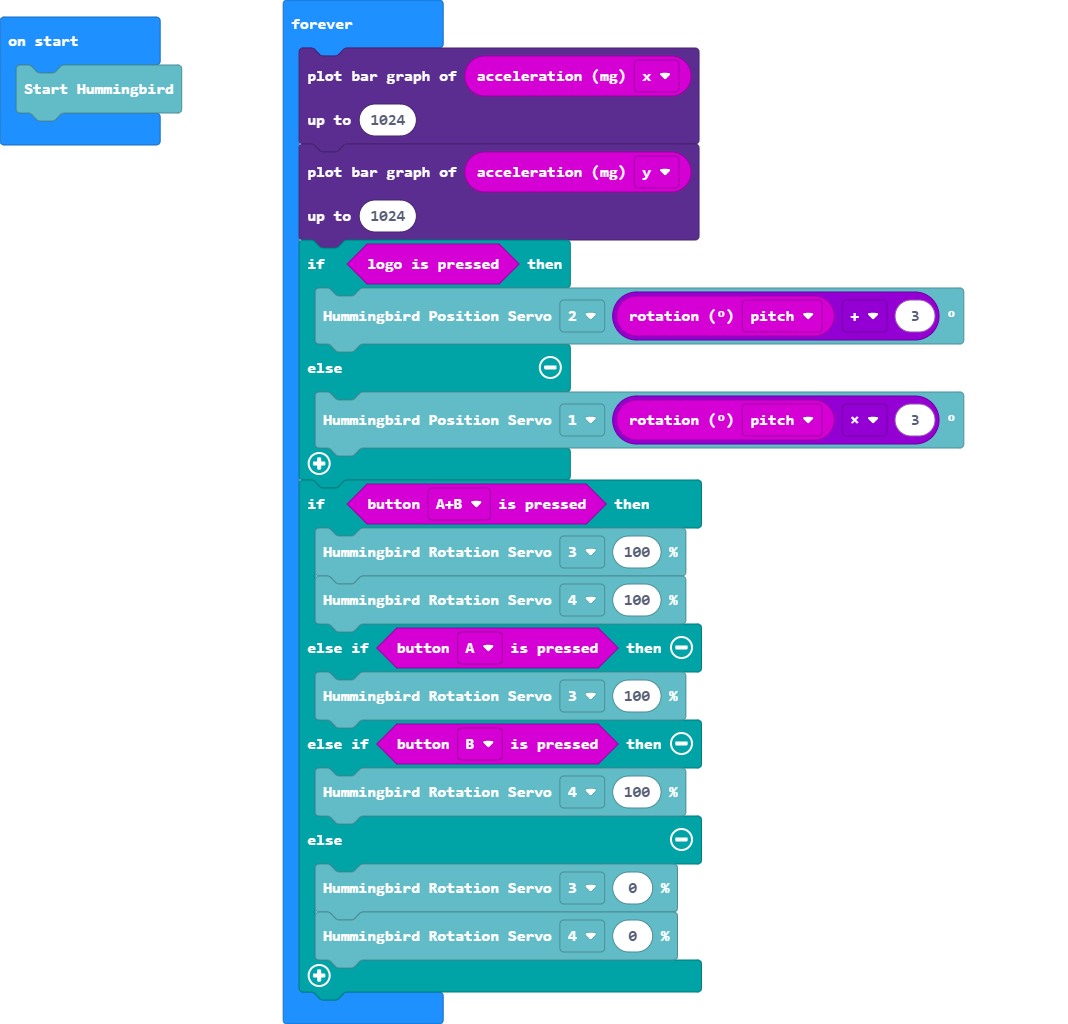
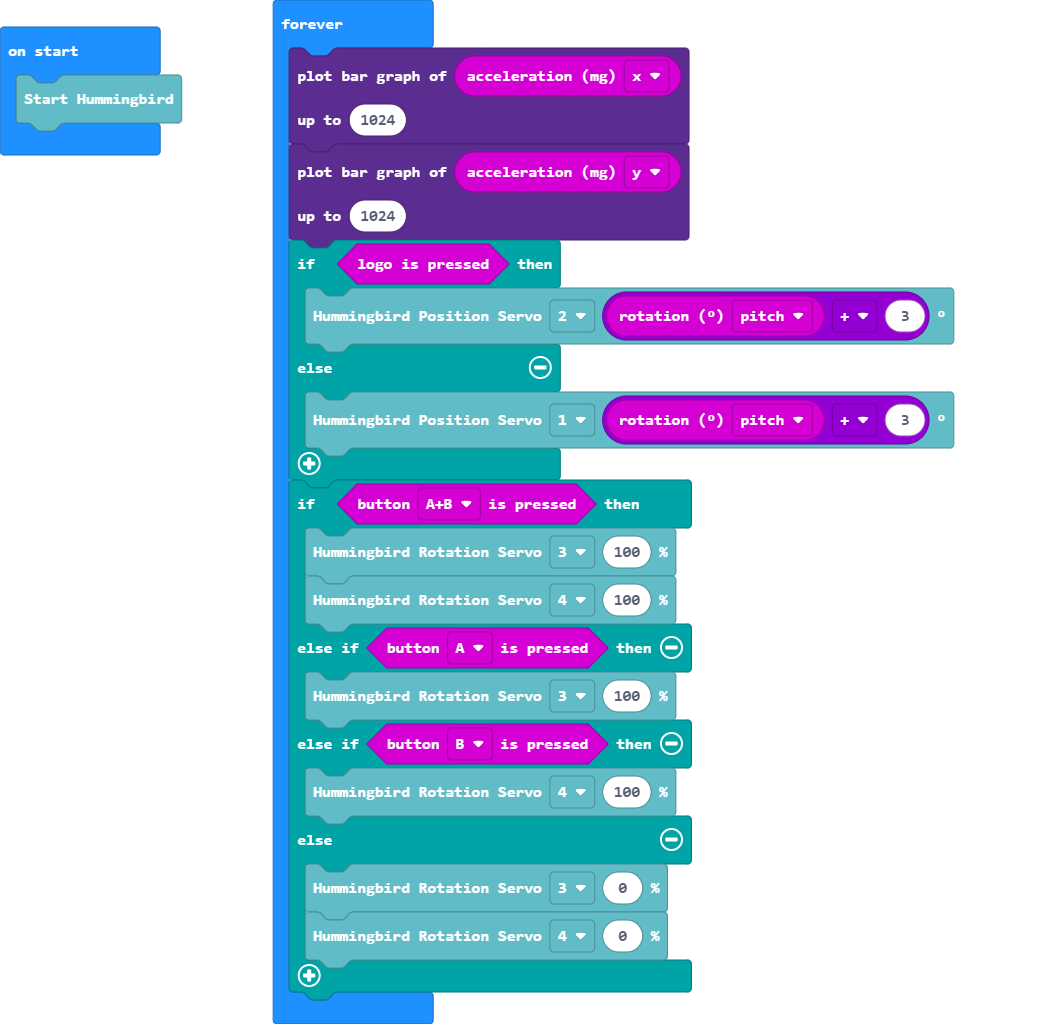
Update main.blocks, main.ts

diff --git a/main.ts b/main.ts
@@ -11,7 +11,7 @@ basic.forever(function () {
     if (input.logoIsPressed()) {
         hummingbird.setPositionServo(FourPort.Two, input.rotation(Rotation.Pitch) + 3)
     } else {
-        hummingbird.setPositionServo(FourPort.One, input.rotation(Rotation.Pitch) * 3)
+        hummingbird.setPositionServo(FourPort.One, input.rotation(Rotation.Pitch) + 3)
     }
     if (input.buttonIsPressed(Button.AB)) {
         hummingbird.setRotationServo(FourPort.Three, 100)
